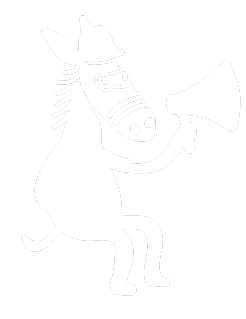
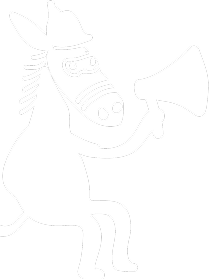
adaptation changes

diff --git a/main.css b/main.css
@@ -23,6 +23,7 @@
 body {
     margin: 0;
     padding: 0;
+    overflow-x: hidden;
 }
 
 html {
@@ -680,6 +681,7 @@ nav {
   width: 500px;
   margin-right: 70px;
   margin-left: 20px;
+  position: relative;
 }
 
 .amenities-card-rectangle {
@@ -782,20 +784,40 @@ nav {
     grid-template-columns: 1fr;
     gap: 20px;
     width: 95%;
+
+  }
+
+  .web-text h3 {
+    font-size: 20px;
+    margin-left: 20px;
+  }
+
+  .card-web-list {
+    margin-left: 20px;
+  }
+
+  .web-text ul li {
+    font-size: 12px;
   }
 
   .amenities-card {
-    width: 380px;
+    max-width: 380px;
+    width: 100%;
     margin: 0;
+    box-sizing: border-box;
   }
 
   .amenities-card-rectangle {
-    width: 380px;
+    max-width: 330px;
+    width: 100%;
+    height: 200px;
   }
 
   .amenities-card-donkey {
-    right: 23%;
+    right: 6%;
     top: -15%;
+    height: 250px;
+    
   }
 
   .design-title {
@@ -808,9 +830,10 @@ nav {
   }
 
   .design-donkey{
-    top: 2%;
-    right: 85%;
-    height: 300px;
+    top: -2%;
+    right: 70%;
+    height: 250px;
+   
   }
 
   .marketing-title {
@@ -825,13 +848,12 @@ nav {
   .marketing-donkey{
     top: -15%;
     right: 10%;
-    height: 250px;
     transform: scaleX(-1);
   }
 
   .supp-title {
     margin-left: 160px !important;
-    margin-top: 90px !important;
+    margin-top: 60px !important;
   }
 
   .supp-list {
@@ -839,10 +861,24 @@ nav {
   } 
 
   .supp-donkey {
-    right: 90% !important;
-    height: 300px;
+    right: 75% !important;
+    top: 1% !important;
     transform: scaleX(-1);
   }
+
+  .design-donkey,
+.marketing-donkey,
+.supp-donkey,
+.amenities-card-donkey {
+  max-width: 150px;
+  max-height: 200px;
+  height: auto;
+  width: 100%;
+}
+
+.amenities-butt {
+  margin-top: 40px;
+}
 }
 
 /*                                  How to buy styles                                 */
@@ -1148,6 +1184,8 @@ nav {
   max-height: 200px; /* достаточно большое значение */
   opacity: 1;
   padding: 1rem;
+  margin-top: 10px;
+  margin-bottom: 10px;
 }
 
 .faq-toggle {
@@ -1212,6 +1250,16 @@ nav {
 
 .faq-item.hidden {
   margin-bottom: 0;
+}
+
+@media (max-width: 768px) {
+  .faq-list {
+    width: 90%;
+  }
+
+  .faq-item-title p {
+    font-size: 14px;
+  }
 }
 
 /*                                  Projects styles                                 */
